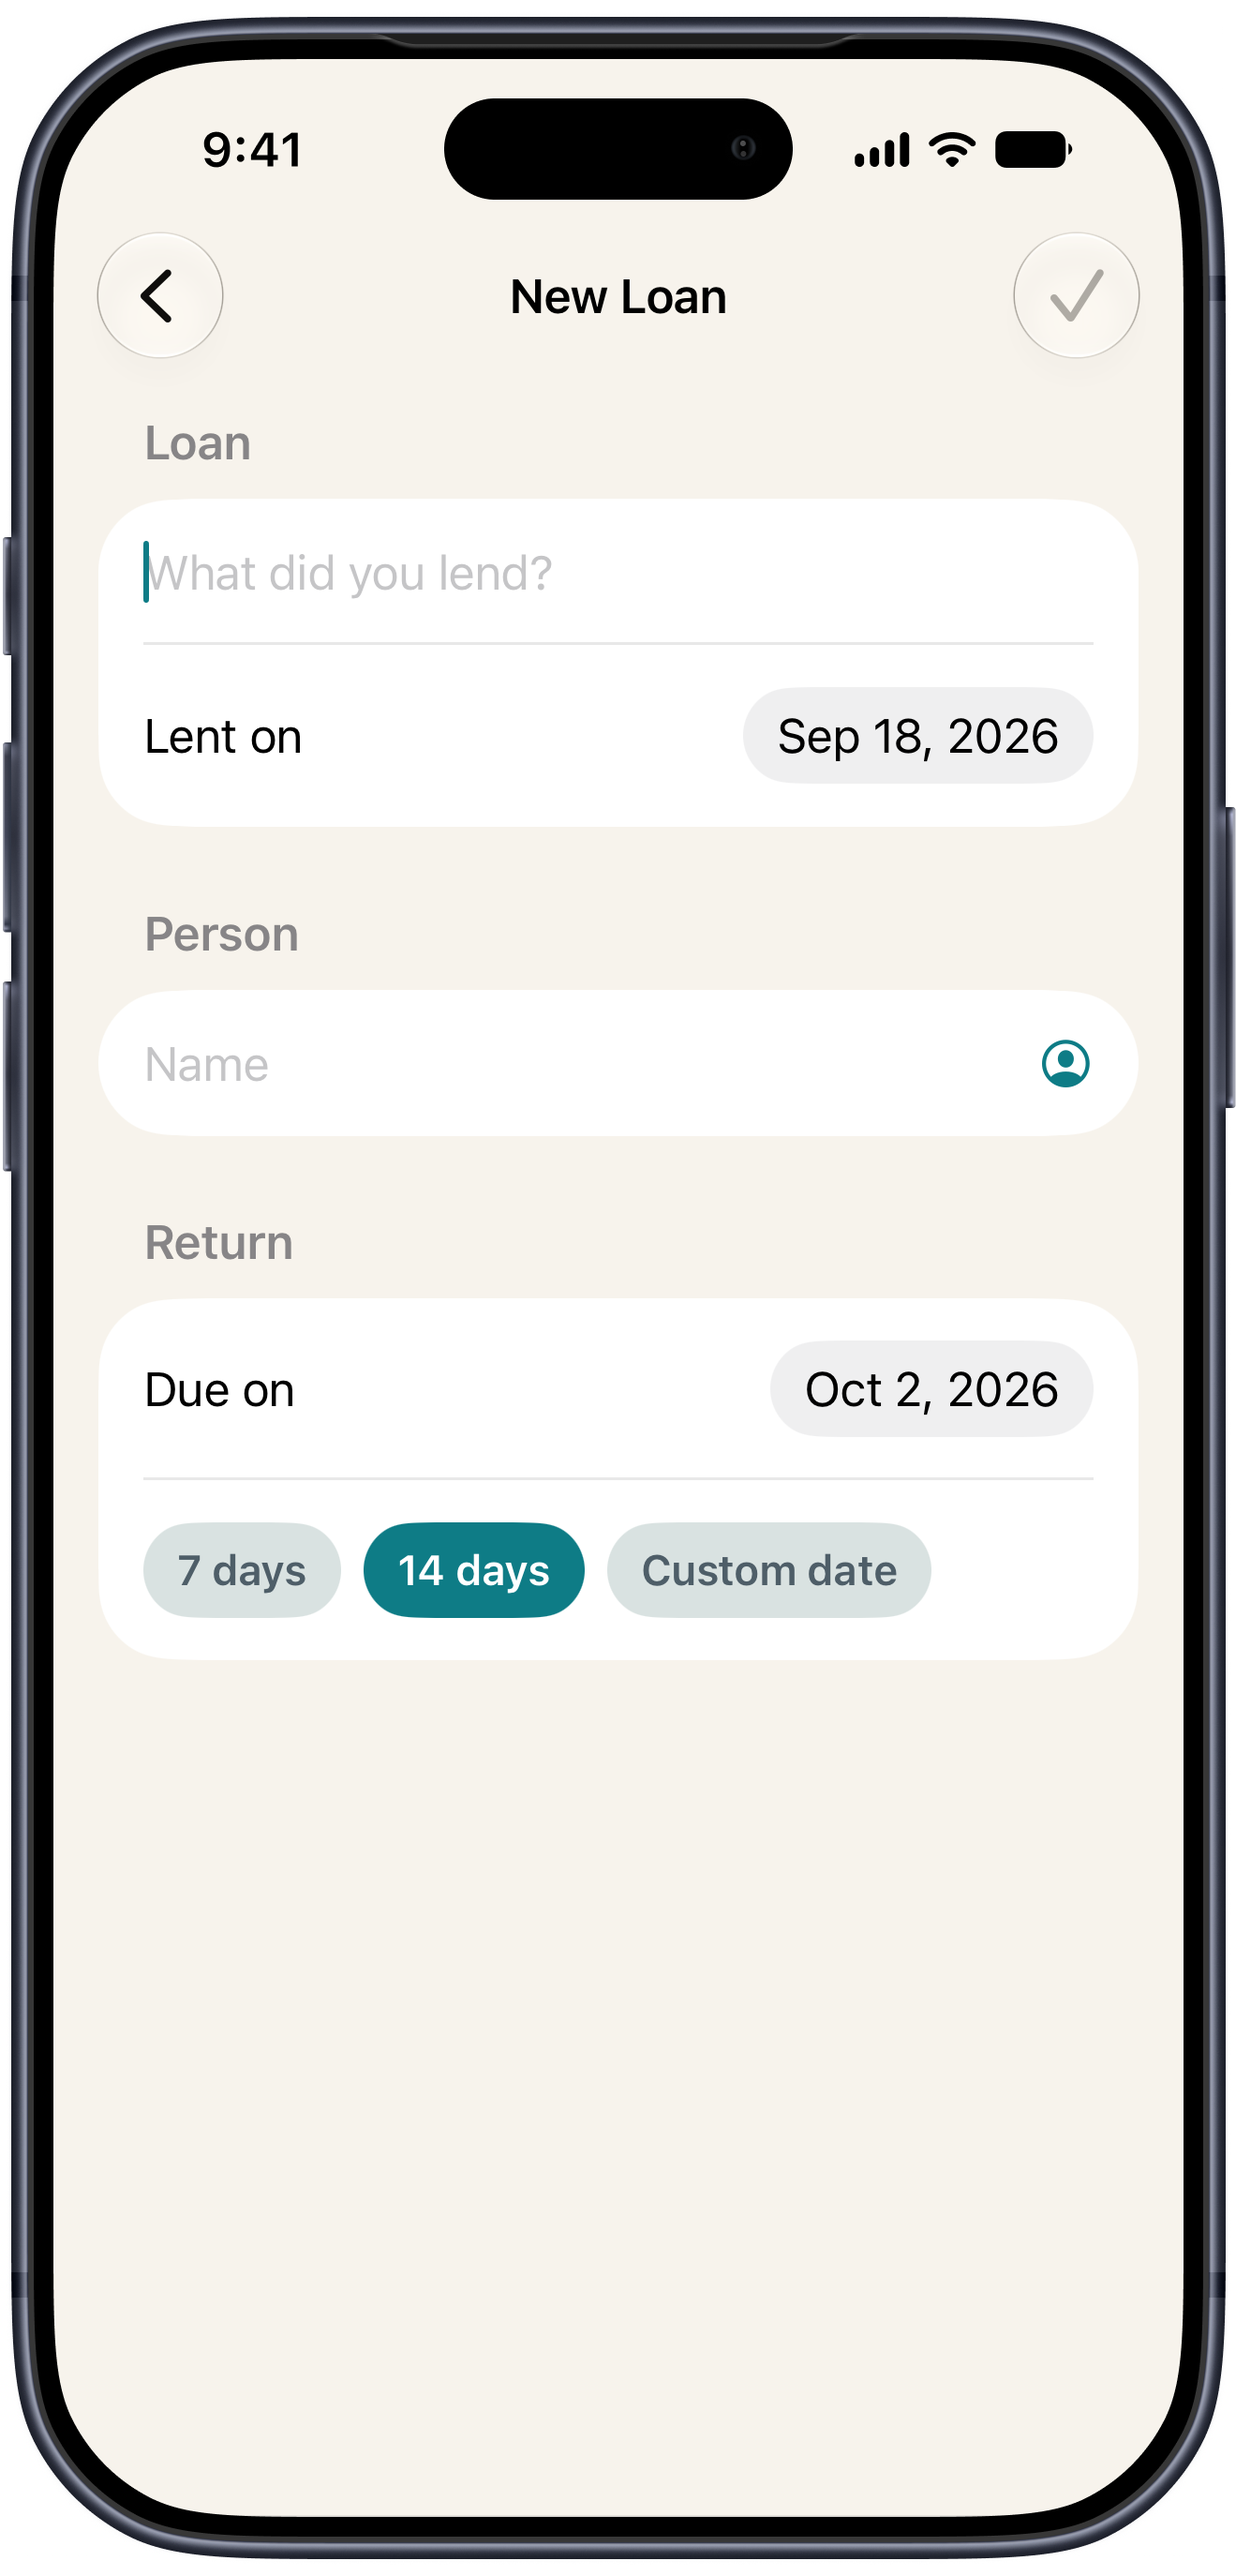
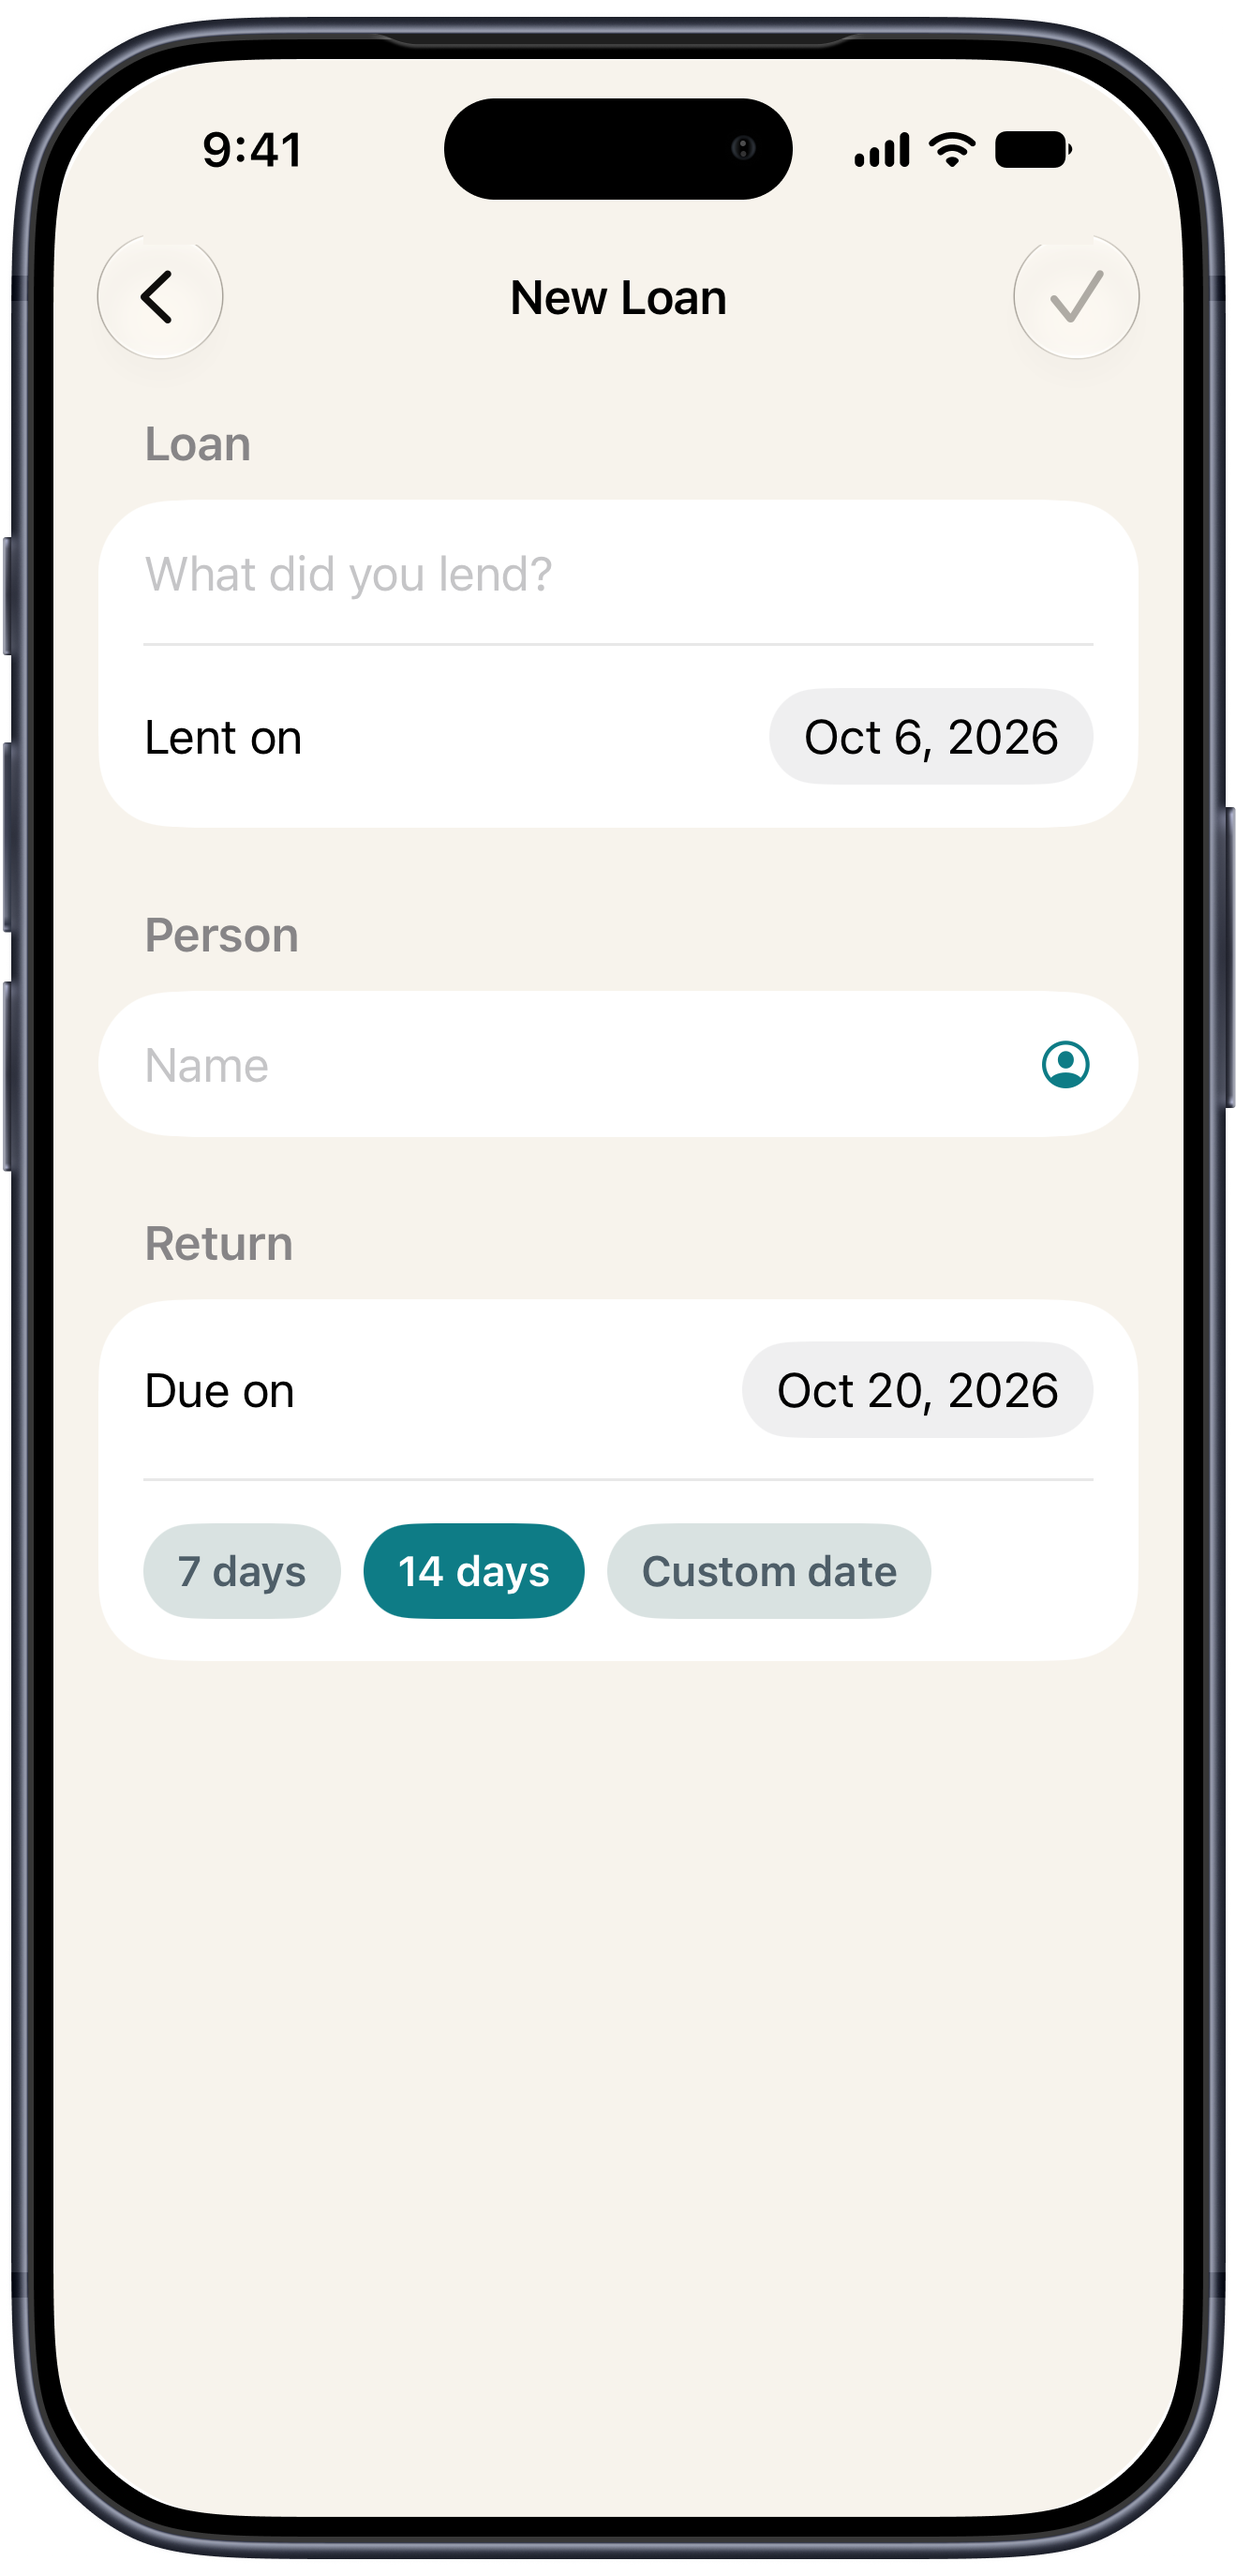
Add framed screenshot exports for website (#73)
This commit standardizes the website screenshot assets to PascalCase filenames and updates the app docs/site references accordingly. It also adds a small export script and frame asset to generate the same PNGs into both docs/assets and website/public/screens, replacing the old light-only filenames with a consistent, reusable workflow.

Changed region(s): [[0.6217, 0.5258, 0.746, 0.5568], [0.6217, 0.2784, 0.746, 0.3093]]

diff --git a/scripts/export-images.swift b/scripts/export-images.swift
@@ -1,0 +1,154 @@
+import AppKit
+
+// Rendering uses macOS frameworks only; no package installation is required.
+let root = URL(fileURLWithPath: #filePath).deletingLastPathComponent().deletingLastPathComponent()
+let usage = """
+Usage:
+  ./scripts/export-images.sh screenshot.png [name]
+  ./scripts/export-images.sh --simulator [name] [--device device-UDID]
+
+Writes the same PNG into docs/assets/ and website/public/screens/:
+<name>.png, or simulator-framed.png when no name is supplied.
+The .png extension is optional. No image is written into the repository root.
+Uses docs/assets/iphone-frame.png. Existing exports with the same name are replaced.
+Input must be an unframed portrait screenshot. Simulator capture does not navigate
+the app or change its data. With multiple simulators, use --device device-UDID.
+The supplied frame's baked-in light status bar is retained.
+"""
+
+enum ExportError: LocalizedError {
+    case message(String)
+    var errorDescription: String? {
+        switch self { case .message(let text): return text }
+    }
+}
+
+func load(_ url: URL) throws -> CGImage {
+    guard let source = CGImageSourceCreateWithURL(url as CFURL, nil),
+          let image = CGImageSourceCreateImageAtIndex(source, 0, nil) else {
+        throw ExportError.message("Cannot read image: \(url.path)")
+    }
+    return image
+}
+
+func render(width: Int, height: Int, draw: (CGContext) -> Void) throws -> CGImage {
+    guard let context = CGContext(data: nil, width: width, height: height,
+                                  bitsPerComponent: 8, bytesPerRow: 0,
+                                  space: CGColorSpace(name: CGColorSpace.sRGB)!,
+                                  bitmapInfo: CGImageAlphaInfo.premultipliedLast.rawValue) else {
+        throw ExportError.message("Cannot create image canvas.")
+    }
+    context.interpolationQuality = .high
+    draw(context)
+    guard let image = context.makeImage() else {
+        throw ExportError.message("Cannot render image.")
+    }
+    return image
+}
+
+func pngData(_ image: CGImage) throws -> Data {
+    guard let data = NSBitmapImageRep(cgImage: image).representation(using: .png, properties: [:]) else {
+        throw ExportError.message("Cannot encode the exported PNG.")
+    }
+    return data
+}
+
+func capture(device: String, to url: URL) throws {
+    let process = Process()
+    process.executableURL = URL(fileURLWithPath: "/usr/bin/xcrun")
+    process.arguments = ["simctl", "io", device, "screenshot", "--type=png", url.path]
+    try process.run()
+    process.waitUntilExit()
+    guard process.terminationStatus == 0 else {
+        throw ExportError.message("Simulator capture failed. Start a simulator and show the desired app screen first.")
+    }
+}
+
+// Coordinates measured for the supplied 1319 × 2748 iphone-frame.png.
+// Core Graphics uses a bottom-left origin. The display starts 64 px from the top.
+func frameScreenshot(_ screenshot: CGImage, frame: CGImage) throws -> CGImage {
+    guard frame.width == 1319, frame.height == 2748 else {
+        throw ExportError.message("docs/assets/iphone-frame.png must be 1319 × 2748; update the display geometry for a different frame.")
+    }
+    guard screenshot.height > screenshot.width else {
+        throw ExportError.message("Use a portrait screenshot without an existing device frame.")
+    }
+    let display = CGRect(x: 57, y: 62, width: 1206, height: 2622)
+    let ratio = CGFloat(screenshot.width) / CGFloat(screenshot.height)
+    guard abs(ratio / (display.width / display.height) - 1) < 0.03 else {
+        throw ExportError.message("Screenshot aspect ratio does not match this frame. Use a matching portrait iPhone simulator (for example iPhone 17 Pro).")
+    }
+    return try render(width: frame.width, height: frame.height) { context in
+        context.saveGState()
+        context.addPath(CGPath(roundedRect: display, cornerWidth: 200, cornerHeight: 200, transform: nil))
+        context.clip()
+        // Aspect-fill preserves proportions; small device-ratio differences crop at the edges.
+        let scale = max(display.width / CGFloat(screenshot.width), display.height / CGFloat(screenshot.height))
+        let size = CGSize(width: CGFloat(screenshot.width) * scale, height: CGFloat(screenshot.height) * scale)
+        context.draw(screenshot, in: CGRect(x: display.midX - size.width / 2,
+                                            y: display.midY - size.height / 2,
+                                            width: size.width, height: size.height))
+        context.restoreGState()
+        context.draw(frame, in: CGRect(x: 0, y: 0, width: frame.width, height: frame.height))
+    }
+}
+
+
+do {
+    let arguments = Array(CommandLine.arguments.dropFirst())
+    if arguments.isEmpty || arguments.contains("--help") || arguments.contains("-h") {
+        print(usage)
+        exit(0)
+    }
+    var remaining = Array(arguments.dropFirst())
+    var device = "booted"
+    let simulator = arguments.first == "--simulator"
+    if let index = remaining.firstIndex(of: "--device") {
+        guard simulator, index + 1 < remaining.count else { throw ExportError.message(usage) }
+        device = remaining[index + 1]
+        remaining.removeSubrange(index...(index + 1))
+    }
+    guard remaining.count <= 1,
+          !remaining.contains(where: { $0.hasPrefix("--") }),
+          simulator || !arguments[0].hasPrefix("--") else {
+        throw ExportError.message(usage)
+    }
+    let name = remaining.first ?? "simulator-framed"
+    guard !name.isEmpty, name != ".", name != "..", !name.contains("/"),
+          !name.contains("\\"), !name.contains("\0") else {
+        throw ExportError.message("Specify a filename without directory components.")
+    }
+    let filename = name.lowercased().hasSuffix(".png") ? name : "\(name).png"
+    let outputs = ["docs/assets", "website/public/screens"].map {
+        root.appendingPathComponent($0).appendingPathComponent(filename)
+    }
+    let frameURL = root.appendingPathComponent("docs/assets/iphone-frame.png")
+    guard !outputs.contains(where: { $0.path.lowercased() == frameURL.path.lowercased() }) else {
+        throw ExportError.message("The export must not overwrite the iPhone frame.")
+    }
+    let frame = try load(frameURL)
+    var temporaryCapture: URL?
+    defer { if let temporaryCapture { try? FileManager.default.removeItem(at: temporaryCapture) } }
+    let input: URL
+    if simulator {
+        let temporary = FileManager.default.temporaryDirectory.appendingPathComponent("borrowback-\(UUID().uuidString).png")
+        temporaryCapture = temporary
+        try capture(device: device, to: temporary)
+        input = temporary
+    } else {
+        input = URL(fileURLWithPath: arguments[0]).standardizedFileURL
+    }
+    guard !outputs.contains(input) else {
+        throw ExportError.message("Input and export paths must differ.")
+    }
+    let phone = try frameScreenshot(load(input), frame: frame)
+    let data = try pngData(phone)
+    for output in outputs {
+        try FileManager.default.createDirectory(at: output.deletingLastPathComponent(), withIntermediateDirectories: true)
+        try data.write(to: output, options: .atomic)
+        print("Exported \(output.path)")
+    }
+} catch {
+    fputs("Error: \(error.localizedDescription)\n", stderr)
+    exit(1)
+}

diff --git a/website/app/page.tsx b/website/app/page.tsx
@@ -160,7 +160,7 @@ export default function Home() {
 
           <div className="hero-stage">
             <DeviceFrame
-              screenshot="home-view-light"
+              screenshot="HomeView"
               alt="The BorrowBack overview, listing four active loans with their due dates"
               placement="hero"
               preload
@@ -216,7 +216,7 @@ export default function Home() {
             </div>
             <div className="split-visual">
               <DeviceFrame
-                screenshot="add-view-light"
+                screenshot="AddView"
                 alt="The New Loan screen with fields for item, person and return date"
               />
             </div>
@@ -277,7 +277,7 @@ export default function Home() {
             </div>
             <div className="split-visual">
               <DeviceFrame
-                screenshot="archive-view-light"
+                screenshot="ArchiveView"
                 alt="The archive, listing items that have already been returned"
               />
             </div>

diff --git a/docs/screenshots.md b/docs/screenshots.md
@@ -1,0 +1,63 @@
+# Screenshot exports
+
+Use `scripts/export-images.sh` to put a simulator screenshot inside the shared
+iPhone frame and save the same PNG to `docs/assets/` and
+`website/public/screens/`. Existing files with the same name are replaced.
+
+## Requirements
+
+Run on macOS with Xcode installed for simulator capture. The renderer uses macOS
+frameworks and requires no additional dependencies. Start a portrait iPhone
+simulator with matching display proportions, such as iPhone 17 Pro, and open the
+desired app screen in light mode.
+
+The frame is `docs/assets/iphone-frame.png`. It includes a fixed light status bar
+showing `9:41`. A different frame requires updating the display geometry in
+`scripts/export-images.swift`.
+
+## Capture the current simulator screen
+
+Run from the repository root, navigating to the appropriate screen before each
+capture:
+
+```sh
+./scripts/export-images.sh --simulator HomeView
+./scripts/export-images.sh --simulator AddView
+./scripts/export-images.sh --simulator ArchiveView
+```
+
+Use these exact names to replace the images referenced by the website and README.
+Each command writes one framed image to each output directory, for example
+`docs/assets/HomeView.png` and `website/public/screens/HomeView.png`.
+
+The name is optional; without it, the filename is `simulator-framed.png`.
+You can include `.png` in the name. For names containing spaces, use quotes.
+
+If multiple simulators are running, select one explicitly:
+
+```sh
+xcrun simctl list devices booted
+./scripts/export-images.sh --simulator HomeView --device DEVICE-UDID
+```
+
+## Frame an existing screenshot
+
+```sh
+./scripts/export-images.sh /path/to/raw-screenshot.png HomeView
+```
+
+Supply a raw, unframed portrait screenshot. Images already in `docs/assets/` and
+`website/public/screens/` contain a device frame and should not be framed again.
+
+## Export behavior
+
+- Output PNGs are 1319 × 2748 pixels with transparency around the device.
+- Both output directories are resolved relative to the repository, regardless of
+  the working directory. Input paths are relative to the working directory.
+- Each output file is replaced atomically. If writing the second copy fails, the
+  first may already be updated; resolve the error and rerun the command.
+- The raw simulator capture is temporary and removed after the export.
+- No image is generated in the repository root, and no OG image is generated.
+- The script does not navigate the app, seed data, or change simulator settings.
+
+Run `./scripts/export-images.sh --help` for the command syntax.

diff --git a/AGENTS.md b/AGENTS.md
@@ -13,6 +13,7 @@ BorrowBack is a native iOS app for tracking items that have been lent to other p
 - `app/apple/BorrowBack/Assets.xcassets/` and `app/apple/Icon.icon/`: app colors and icon assets.
 - `app/apple/BorrowBack/PrivacyInfo.xcprivacy`: privacy manifest. It currently declares stored names and phone numbers for app functionality, no tracking, and no required-reason API use. Keep it aligned with the app's data handling when behavior changes.
 - `docs/features/`: documentation for the currently implemented native features; use `_template.md` for new feature documents.
+- `scripts/export-images.sh`: frame simulator screenshots and update both `docs/assets/` and `website/public/screens/`; see [docs/screenshots.md](docs/screenshots.md) for usage and image names.
 - `website/`: separate Next.js site; read `website/AGENTS.md` before editing it.
 
 ## Native App Architecture

diff --git a/README.md b/README.md
@@ -27,11 +27,11 @@ is due, mark it as returned, and find it again in the archive. The interface is
 purposefully small and uses native iOS patterns throughout.
 
 <p align="center">
-  <img src="website/public/screens/home-view-light.png" width="30%" alt="BorrowBack active-loan overview">
+  <img src="website/public/screens/HomeView.png" width="30%" alt="BorrowBack active-loan overview">
   &nbsp;
-  <img src="website/public/screens/add-view-light.png" width="30%" alt="BorrowBack add-loan form">
+  <img src="website/public/screens/AddView.png" width="30%" alt="BorrowBack add-loan form">
   &nbsp;
-  <img src="website/public/screens/archive-view-light.png" width="30%" alt="BorrowBack returned-loan archive">
+  <img src="website/public/screens/ArchiveView.png" width="30%" alt="BorrowBack returned-loan archive">
 </p>
 
 <p align="center">
